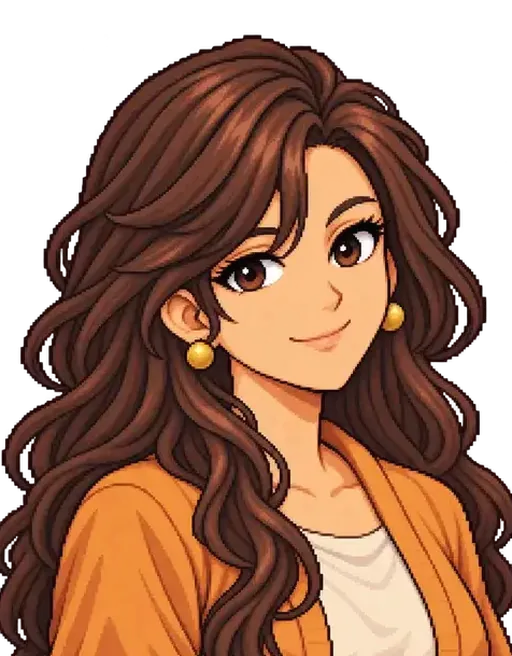
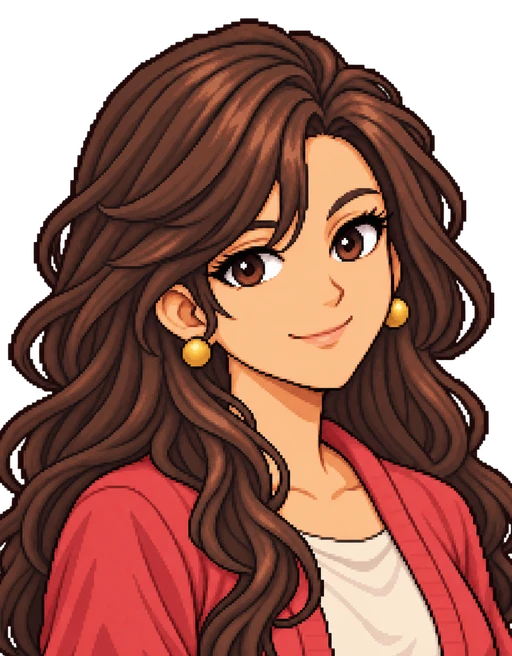
Update Citra TALK portrait with soft red outfit and matching close-up crop

diff --git a/index.html b/index.html
@@ -702,7 +702,7 @@ if (!window.Phaser) {
    }
    for(const id of Object.values(NPC_TALK_UPDATED_PORTRAITS)){
     this.load.image('npc-talk-hd-'+id+'-v1682',
-     './assets/npc/portraits/v1682/'+id+'.webp?v=16.82');
+     './assets/npc/portraits/v1682/'+id+'.webp?v='+(id==='citra'?'16.83':'16.82'));
    }
    if(!this.portfolioLoaderBound){
     this.portfolioLoaderBound=true;
